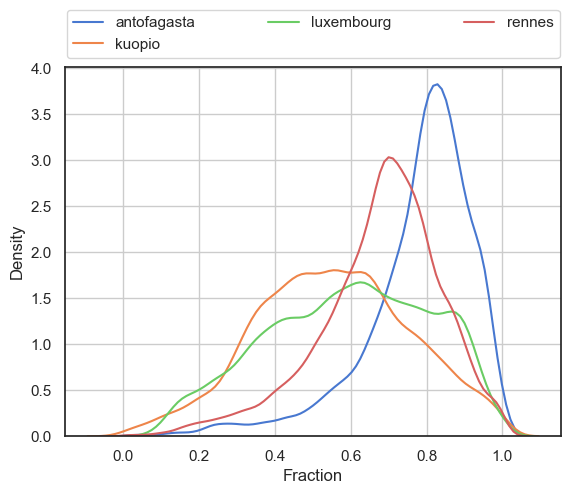
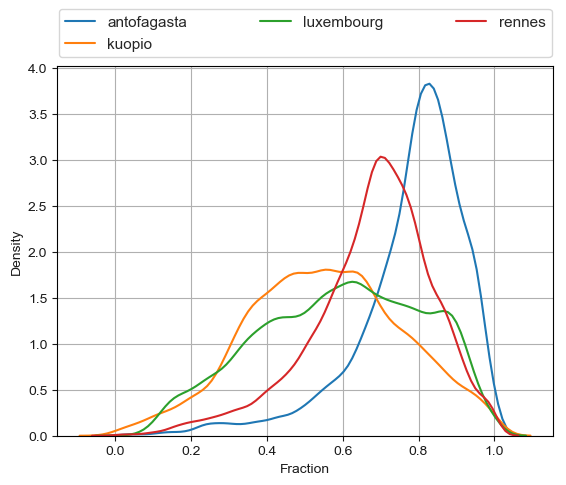
updated fractions plots

Changed region(s): [[0.0, 0.0, 0.9912, 0.9897], [0.7208, 0.7732, 0.7509, 0.8351]]

diff --git a/compare_shortest_path.py b/compare_shortest_path.py
@@ -11,55 +11,57 @@ if __name__ == '__main__':
     clusters = nf.get_cluster_dict_for_area()
 
     n_core_nodes = 20
+    dump = False
 
-    fractions = {}
+    fractions = {} if dump is True else nf.load_json('./results/all/json/fractions_bfs_vs_sp.json')
 
-    ''' Computations over each city '''
-    for city in cities:
+    if dump:
+        ''' Computations over each city '''
+        for city in cities:
 
-        print('Processing ' + city + ' ...')
+            print('Processing ' + city + ' ...')
 
-        ''' CREATE NETWORK - undirected and unweighted '''
-        net = nf.create_network(city, types=types)
-        net_w = net.copy()
-        nf.add_weights_to_network(net_w)
-        nodes = net.nodes()
+            ''' CREATE NETWORK - undirected and unweighted '''
+            net = nf.create_network(city, types=types)
+            net_w = net.copy()
+            nf.add_weights_to_network(net_w)
+            nodes = net.nodes()
 
-        city_bfs, city_ed = [], []
+            city_bfs, city_ed = [], []
 
-        f = []
+            f = []
 
-        max_component = max(nx.connected_component_subgraphs(net), key=len)
+            max_component = max(nx.connected_component_subgraphs(net), key=len)
 
-        for i in range(n_core_nodes):
+            for i in range(n_core_nodes):
 
-            core_node = rd.choice(list(max_component.nodes()))
-            # print("Core node = %d" % core_node)
-            coords = nx.get_node_attributes(net, 'coords')
+                core_node = rd.choice(list(max_component.nodes()))
+                # print("Core node = %d" % core_node)
+                coords = nx.get_node_attributes(net, 'coords')
 
-            '''
-            for each core node visit the network and record 2 types of distances for each reached node:
-                1. bfs - minimum hop not minimum distance
-                2. euclidean distance
-            all in km
-            maybe visit a weighted graph with dijskstra
-            '''
-            level, parent, distances_bfs, distances_eu = nf.bfs_with_distance(net, core_node, coords)
-            r = distances_bfs.pop(core_node, None)
+                '''
+                for each core node visit the network and record 2 types of distances for each reached node:
+                    1. bfs - minimum hop not minimum distance
+                    2. euclidean distance
+                all in km
+                maybe visit a weighted graph with dijskstra
+                '''
+                level, parent, distances_bfs, distances_eu = nf.bfs_with_distance(net, core_node, coords)
+                r = distances_bfs.pop(core_node, None)
 
-            sp = nx.shortest_path_length(net_w, source=core_node, weight='weight')
-            r1 = sp.pop(core_node, None)
+                sp = nx.shortest_path_length(net_w, source=core_node, weight='weight')
+                r1 = sp.pop(core_node, None)
 
-            bfs_nodes = set(distances_bfs.keys())
-            sp_nodes = set(sp.keys())
-            equal = True if bfs_nodes == sp_nodes else False
+                bfs_nodes = set(distances_bfs.keys())
+                sp_nodes = set(sp.keys())
+                equal = True if bfs_nodes == sp_nodes else False
 
-            for node in bfs_nodes:
-                f.append(sp[node]/distances_bfs[node])
+                for node in bfs_nodes:
+                    f.append(sp[node]/distances_bfs[node])
 
-        fractions[city] = f
+            fractions[city] = f
 
-    nf.dump_json('./results/all/json/fractions_bfs_vs_sp.json', fractions)
+        nf.dump_json('./results/all/json/fractions_bfs_vs_sp.json', fractions)
 
     for cluster, values in clusters.items():
 
@@ -71,9 +73,8 @@ if __name__ == '__main__':
         fig_name = dir_name+'fractions_'+cluster+'_.png'
         fig.savefig(fig_name, bbox_inches='tight')
 
-    # fractions = nf.load_json('./results/all/json/fractions_bfs_vs_sp.json')
+    fractions = nf.load_json('./results/all/json/fractions_bfs_vs_sp.json')
 
-    fig = nf.plot_distances_fractions(fractions)
+    fig = nf.plot_distances_fractions(fractions, False)
     fig_name = './results/all/plots/distances/fractions_sp/all_no_legend.png'
     fig.savefig(fig_name, bbox_inches='tight')
-

diff --git a/network_functions.py b/network_functions.py
@@ -85,9 +85,9 @@ def get_list_sorted_values(value_str, dict):
 def get_cluster_dict_for_area():
     result = {'0-100': ['kuopio', 'rennes', 'luxembourg', 'antofagasta'],
               '100-300': ['paris', 'palermo', 'turku', 'belfast'],
-              '300-500': ['dublin', 'winnipeg', 'canberra', 'athens', 'venice', 'rome', 'prague'],
+              '300-500': ['dublin', 'winnipeg', 'canberra', 'athens', 'venice', 'rome', 'prague', 'detroit'],
               '500-1000': ['grenoble', 'nantes', 'helsinki', 'toulouse', 'adelaide'],
-              '1000+': ['berlin', 'bordeaux', 'lisbon', 'brisbane', 'sydney', 'melbourne', 'detroit']}
+              '1000+': ['berlin', 'bordeaux', 'lisbon', 'brisbane', 'sydney', 'melbourne']}
     return result
 
 
@@ -966,7 +966,7 @@ def plot_close_and_far_nodes_for_single_city(close_1, close_2, far_1, far_2, col
     return fig
 
 
-def plot_distances_fractions(fractions):
+def plot_distances_fractions(fractions, legend=True):
 
     fig = plt.figure()
     ax = fig.add_subplot(111)
@@ -977,8 +977,11 @@ def plot_distances_fractions(fractions):
     ax.set_xlabel('Fraction')
     ax.set_ylabel('Density')
     ax.grid()
-    ax.legend(bbox_to_anchor=(0., 1.02, 1., .102), loc='lower left',
-              ncol=3, mode="expand", borderaxespad=0.1)
+    if legend:
+        ax.legend(bbox_to_anchor=(0., 1.02, 1., .102), loc='lower left',
+                  ncol=3, mode="expand", borderaxespad=0.1)
+    else:
+        ax.get_legend().remove()
 
     return fig
 
